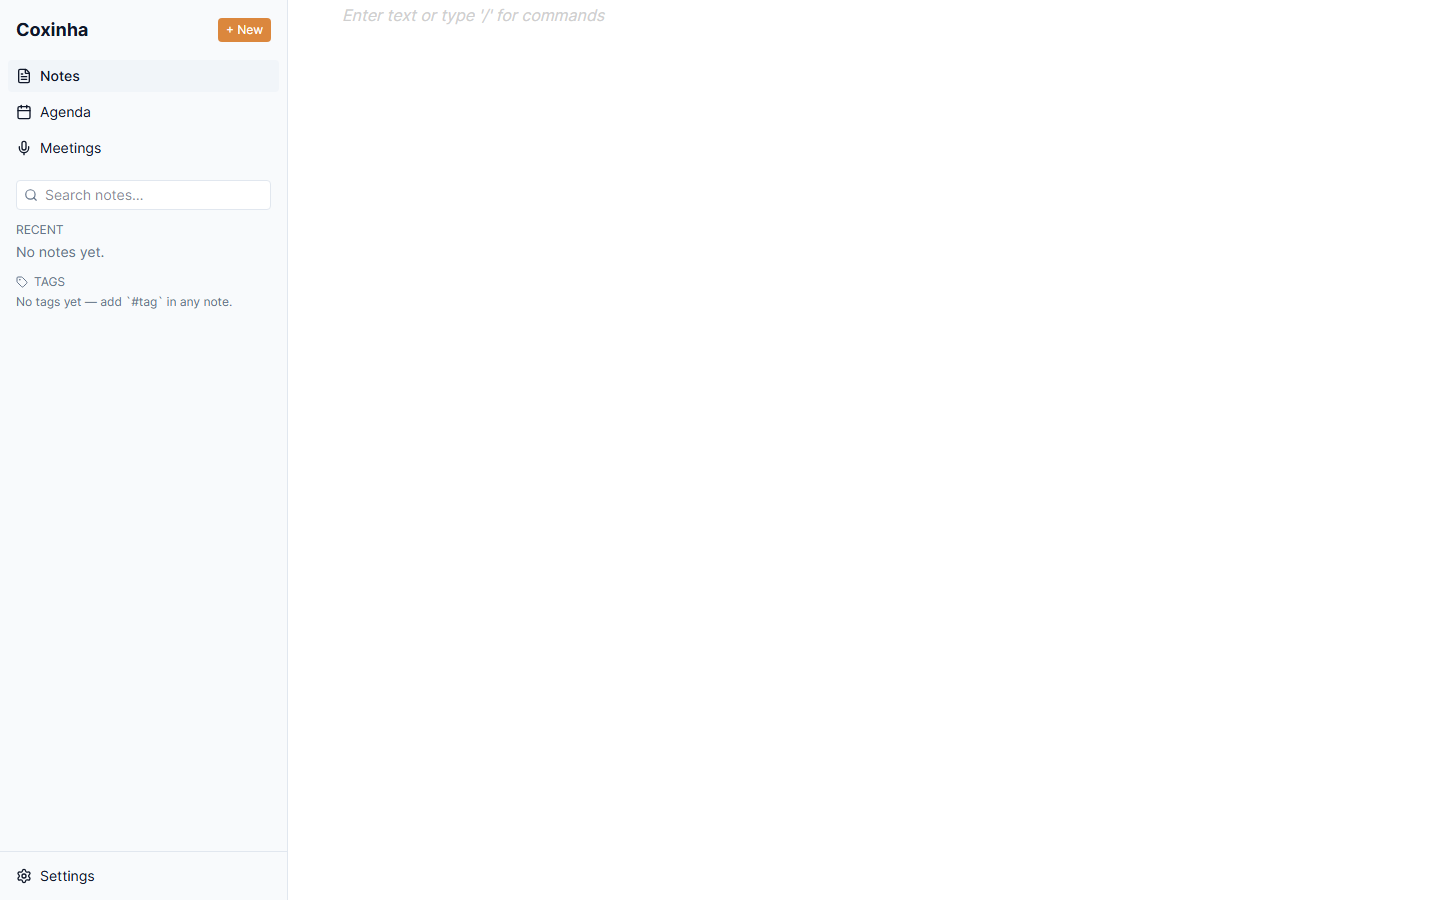
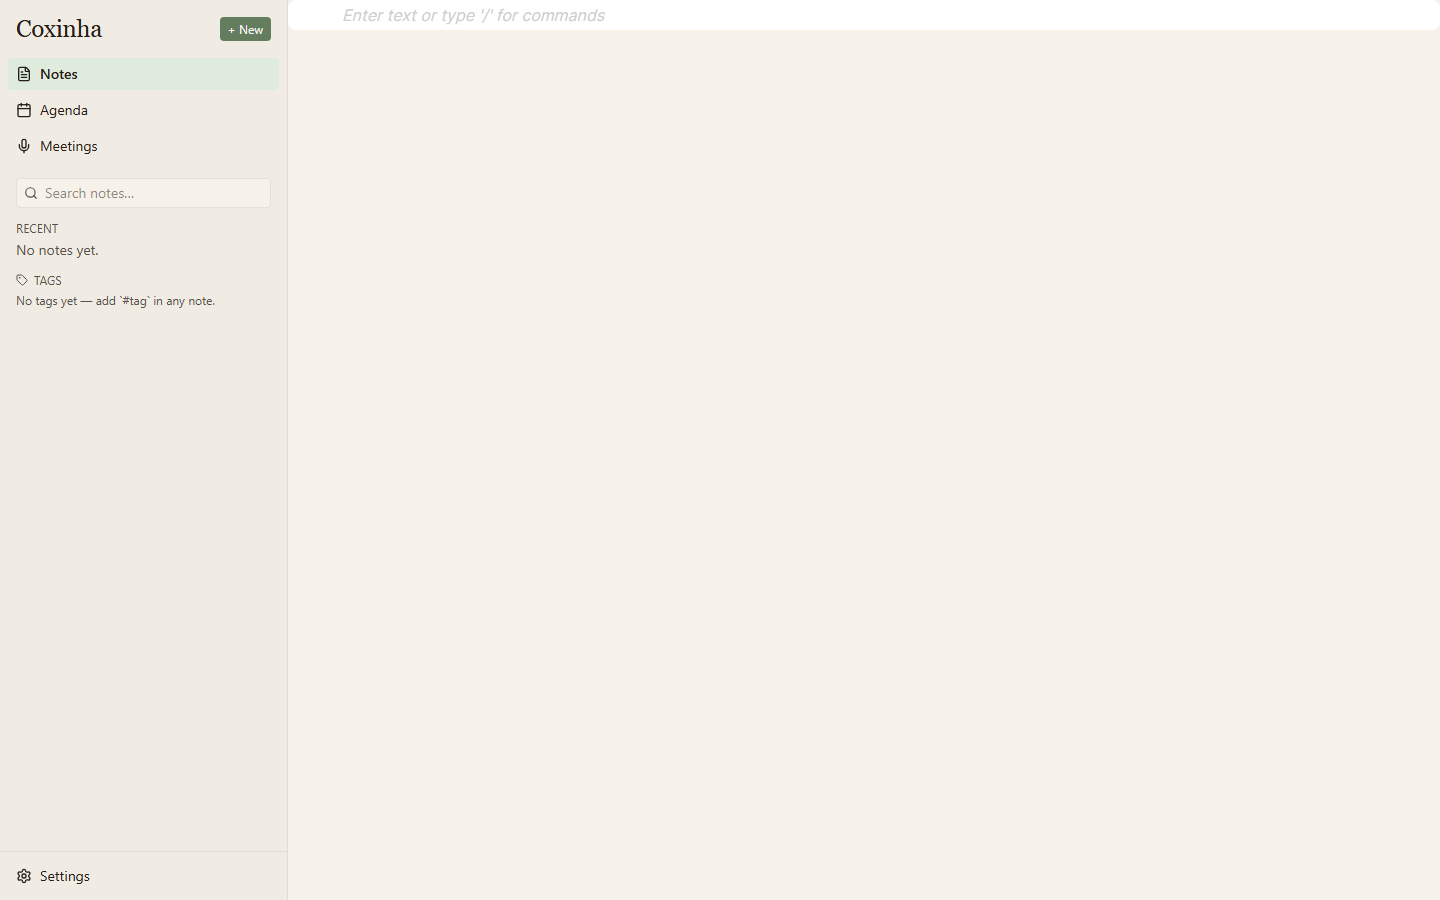
design: adopt Claude Design tokens + serif typography
First wave of the handoff bundle integration from the user's Claude Design session (stored under docs/research/ui-audit/mockups/reference-opera-air-layout.png and the extracted bundle). Swaps the CSS token system from Zinc-neutral to the warm OKLCH paper palette with sage accent that the user landed on, and retunes display type to Newsreader serif.

Changes:

- src/index.css: full rewrite. OKLCH raw-triplet tokens for canvas/surface/sunken/fg-primary/secondary/tertiary/quaternary + sage accent (oklch(0.560 0.055 140)). Dark mode via .dark / [data-theme=dark] with warm charcoal. Newsreader + Inter Tight + JetBrains Mono loaded from Google Fonts. Motion tokens (--ease-calm, --dur-fast/med/slow/breath) match DESIGN.md §6. .cx-display / .cx-eyebrow / .cx-kbd utility classes added.

- Sidebar brand, AgendaView title, MeetingsView title, SettingsView title all use cx-display (Newsreader serif) instead of the old sans-bold treatment.

- src/assets/: coxinha-mark.svg + coxinha-wordmark.svg copied from the handoff bundle. Not yet wired into the sidebar — text brand still the default while the icon-rail refactor is queued.

Accent color:

Pivots from Coxinha Orange #DE8C3A to sage oklch(0.560 0.055 140) per the user's chat with Claude Design (they explicitly asked for a non-orange accent). All existing primary affordances (+ New button, active nav tint, tag pill highlight) now render sage. DESIGN.md still says orange — update coming in the next commit once the visuals settle.
[…]

Changed region(s): [[0.0, 0.0, 0.2188, 1.0]]

diff --git a/src/index.css b/src/index.css
@@ -1,108 +1,103 @@
 @import "tailwindcss";
+@import url('https://fonts.googleapis.com/css2?family=Newsreader:ital,opsz,wght@0,6..72,400;0,6..72,500;0,6..72,600;1,6..72,400&family=Inter+Tight:wght@400;500;600;700&family=JetBrains+Mono:wght@400;500&display=swap');
 
-/* Pull BlockNote's shadcn classes into the scan so utilities they
-   rely on aren't purged. Tailwind 4 ignores node_modules by default. */
+/* BlockNote's shadcn bundle brings its own utility classes — keep
+   them in the Tailwind 4 scan so nothing gets purged. */
 @source "../node_modules/@blocknote/shadcn";
 
-/* Dark mode follows the `.dark` class on <html>, matching what the
-   theme.ts helper toggles. */
 @custom-variant dark (&:where(.dark, .dark *));
 
-/* shadcn token set. Every colour goes through a `--token: H S L`
-   triplet so the Tailwind alias wraps it with `hsl(var(...))` and we
-   can swap light/dark by toggling the `.dark` class on <html>.
-   Primary is the Coxinha orange (#de8c3a) in both modes — the
-   background flips, the accent colour stays the brand. */
+/* ---------------------------------------------------------------
+   Coxinha design tokens — handoff from Claude Design (2026-04-20).
+   Warm paper canvas, stone ink, sage accent. OKLCH throughout so
+   the palette is perceptually even across lightness steps.
+   See docs/research/ui-audit/DESIGN.md and the handoff files in
+   the same folder.
+   --------------------------------------------------------------- */
+
 @theme {
-  --color-background: hsl(var(--background));
-  --color-foreground: hsl(var(--foreground));
-  --color-card: hsl(var(--card));
-  --color-card-foreground: hsl(var(--card-foreground));
-  --color-popover: hsl(var(--popover));
-  --color-popover-foreground: hsl(var(--popover-foreground));
-  --color-primary: hsl(var(--primary));
-  --color-primary-foreground: hsl(var(--primary-foreground));
-  --color-secondary: hsl(var(--secondary));
-  --color-secondary-foreground: hsl(var(--secondary-foreground));
-  --color-muted: hsl(var(--muted));
-  --color-muted-foreground: hsl(var(--muted-foreground));
-  --color-accent: hsl(var(--accent));
-  --color-accent-foreground: hsl(var(--accent-foreground));
-  --color-destructive: hsl(var(--destructive));
-  --color-destructive-foreground: hsl(var(--destructive-foreground));
-  --color-border: hsl(var(--border));
-  --color-input: hsl(var(--input));
-  --color-ring: hsl(var(--ring));
+  --color-background: oklch(var(--bg-canvas));
+  --color-foreground: oklch(var(--fg-primary));
+  --color-card: oklch(var(--bg-surface));
+  --color-card-foreground: oklch(var(--fg-primary));
+  --color-popover: oklch(var(--bg-overlay) / 0.82);
+  --color-popover-foreground: oklch(var(--fg-primary));
+  --color-primary: oklch(var(--accent));
+  --color-primary-foreground: oklch(var(--fg-on-accent));
+  --color-secondary: oklch(var(--bg-surface-2));
+  --color-secondary-foreground: oklch(var(--fg-primary));
+  --color-muted: oklch(var(--bg-sunken));
+  --color-muted-foreground: oklch(var(--fg-secondary));
+  --color-accent: oklch(var(--accent-soft));
+  --color-accent-foreground: oklch(var(--fg-primary));
+  --color-destructive: oklch(var(--danger));
+  --color-destructive-foreground: oklch(var(--fg-on-accent));
+  --color-border: oklch(var(--fg-primary) / 0.08);
+  --color-input: oklch(var(--fg-primary) / 0.14);
+  --color-ring: oklch(var(--accent) / 0.40);
 
-  --radius-lg: var(--radius);
-  --radius-md: calc(var(--radius) - 2px);
-  --radius-sm: calc(var(--radius) - 4px);
+  --radius-lg: 16px;
+  --radius-md: 10px;
+  --radius-sm: 6px;
 
-  --font-sans: "Inter", system-ui, sans-serif;
-  --font-mono: "JetBrains Mono", Consolas, monospace;
+  --font-sans: 'Inter Tight', ui-sans-serif, -apple-system, BlinkMacSystemFont, 'Segoe UI', system-ui, sans-serif;
+  --font-mono: 'JetBrains Mono', ui-monospace, 'SF Mono', Menlo, monospace;
+  --font-display: 'Newsreader', 'Source Serif Pro', Georgia, serif;
+
+  /* Motion — Opera Air-inspired "calm" easing. */
+  --ease-calm: cubic-bezier(0.22, 0.61, 0.36, 1);
 }
 
 @layer base {
   :root {
-    --background: 0 0% 100%;
-    --foreground: 222 47% 11%;
+    /* Light — warm paper stepped surfaces. */
+    --bg-canvas:    0.960 0.012 80;
+    --bg-surface:   0.975 0.010 80;
+    --bg-surface-2: 0.945 0.013 80;
+    --bg-sunken:    0.930 0.013 80;
+    --bg-overlay:   0.980 0.008 80;
 
-    --card: 0 0% 100%;
-    --card-foreground: 222 47% 11%;
+    --fg-primary:    0.240 0.015 60;
+    --fg-secondary:  0.440 0.012 60;
+    --fg-tertiary:   0.600 0.010 60;
+    --fg-quaternary: 0.730 0.008 60;
+    --fg-on-accent:  0.980 0.008 80;
 
-    --popover: 0 0% 100%;
-    --popover-foreground: 222 47% 11%;
+    /* Accent — muted sage-olive. Quiet, warm-cool neutral.
+       This is the app's only non-neutral hue in chrome. */
+    --accent:       0.560 0.055 140;
+    --accent-hover: 0.510 0.065 140;
+    --accent-soft:  0.930 0.025 140;
 
-    --primary: 28 69% 55%;
-    --primary-foreground: 0 0% 100%;
+    --success: 0.620 0.080 150;
+    --warning: 0.720 0.110 80;
+    --danger:  0.560 0.120 30;
 
-    --secondary: 210 40% 96%;
-    --secondary-foreground: 222 47% 11%;
-
-    --muted: 210 40% 96%;
-    --muted-foreground: 215 16% 47%;
-
-    --accent: 210 40% 96%;
-    --accent-foreground: 222 47% 11%;
-
-    --destructive: 0 84% 60%;
-    --destructive-foreground: 0 0% 100%;
-
-    --border: 214 32% 91%;
-    --input: 214 32% 91%;
-    --ring: 28 69% 55%;
-
-    --radius: 0.5rem;
+    /* Motion tokens — see DESIGN.md §6. */
+    --dur-fast:   120ms;
+    --dur-med:    180ms;
+    --dur-slow:   260ms;
+    --dur-breath: 600ms;
   }
 
-  .dark {
-    --background: 222 47% 6%;
-    --foreground: 210 40% 98%;
+  /* Dark mode — warm charcoal, not blue-black. Same sage accent. */
+  .dark,
+  [data-theme="dark"] {
+    --bg-canvas:    0.225 0.012 60;
+    --bg-surface:   0.255 0.012 60;
+    --bg-surface-2: 0.295 0.012 60;
+    --bg-sunken:    0.200 0.012 60;
+    --bg-overlay:   0.255 0.012 60;
 
-    --card: 222 47% 6%;
-    --card-foreground: 210 40% 98%;
+    --fg-primary:    0.935 0.010 80;
+    --fg-secondary:  0.760 0.012 70;
+    --fg-tertiary:   0.620 0.012 70;
+    --fg-quaternary: 0.480 0.012 70;
+    --fg-on-accent:  0.975 0.010 80;
 
-    --popover: 222 47% 6%;
-    --popover-foreground: 210 40% 98%;
-
-    --primary: 28 69% 55%;
-    --primary-foreground: 222 47% 11%;
-
-    --secondary: 217 33% 17%;
-    --secondary-foreground: 210 40% 98%;
-
-    --muted: 217 33% 17%;
-    --muted-foreground: 215 20% 65%;
-
-    --accent: 217 33% 17%;
-    --accent-foreground: 210 40% 98%;
-
-    --destructive: 0 63% 31%;
-    --destructive-foreground: 210 40% 98%;
-
-    --border: 217 33% 17%;
-    --input: 217 33% 17%;
-    --ring: 28 69% 55%;
+    --accent:       0.680 0.065 140;
+    --accent-hover: 0.720 0.070 140;
+    --accent-soft:  0.330 0.030 140;
   }
 
   * {
@@ -120,8 +115,12 @@
     font-feature-settings: "rlig" 1, "calt" 1;
   }
 
-  /* Respect the OS "reduce motion" setting for everyone, not just
-     the components that remember to gate their transitions. */
+  ::selection {
+    background: oklch(0.860 0.060 55);
+    color: oklch(var(--fg-primary));
+  }
+
+  /* Respect the OS "reduce motion" setting. */
   @media (prefers-reduced-motion: reduce) {
     *,
     ::before,
@@ -137,4 +136,38 @@
 /* BlockNote inside our layout: fill the pane, respect the theme. */
 .bn-container {
   height: 100%;
+}
+
+/* Display (Newsreader serif) utility — for note titles, view
+   headlines, anything that wants the "quiet notebook" tone. */
+.cx-display {
+  font-family: var(--font-display);
+  font-weight: 500;
+  line-height: 1.1;
+  letter-spacing: -0.01em;
+}
+
+/* Eyebrow / small-caps label — sidebar sections ("RECENT", "TAGS")
+   and palette group headers. */
+.cx-eyebrow {
+  font-family: var(--font-sans);
+  font-weight: 500;
+  font-size: 11px;
+  letter-spacing: 0.08em;
+  text-transform: uppercase;
+  color: oklch(var(--fg-tertiary));
+}
+
+/* Kbd chip — matches the design handoff. */
+.cx-kbd {
+  display: inline-flex;
+  align-items: center;
+  padding: 1px 6px;
+  border-radius: 4px;
+  background: oklch(var(--bg-surface-2));
+  color: oklch(var(--fg-secondary));
+  font-family: var(--font-mono);
+  font-size: 11px;
+  font-weight: 500;
+  border: 1px solid oklch(var(--fg-primary) / 0.08);
 }

diff --git a/src/components/Sidebar.tsx b/src/components/Sidebar.tsx
@@ -88,7 +88,10 @@ export function Sidebar({ current, onNavigate }: Props) {
   return (
     <aside className="w-72 border-r border-border flex flex-col bg-muted/50">
       <header className="p-4 flex items-center justify-between">
-        <span className="font-bold text-lg" aria-label={t('brand.name')}>
+        <span
+          className="cx-display text-2xl"
+          aria-label={t('brand.name')}
+        >
           {t('brand.name')}
         </span>
         <button

diff --git a/src/features/meetings/MeetingsView.tsx b/src/features/meetings/MeetingsView.tsx
@@ -4,7 +4,7 @@ export function MeetingsView() {
   const { t } = useTranslation();
   return (
     <section className="p-8" aria-labelledby="meetings-heading">
-      <h1 id="meetings-heading" className="text-2xl font-bold mb-4">
+      <h1 id="meetings-heading" className="cx-display text-4xl mb-4">
         {t('meetings.title')}
       </h1>
       <p className="text-muted-foreground">{t('meetings.comingSoon')}</p>

diff --git a/src/features/agenda/AgendaView.tsx b/src/features/agenda/AgendaView.tsx
@@ -49,7 +49,7 @@ export function AgendaView() {
   return (
     <section className="h-full flex flex-col" aria-labelledby="agenda-heading">
       <header className="px-8 pt-6 pb-2">
-        <h1 id="agenda-heading" className="text-2xl font-bold">
+        <h1 id="agenda-heading" className="cx-display text-4xl">
           {t('agenda.title')}
         </h1>
         <p className="text-sm text-muted-foreground">

diff --git a/src/features/settings/SettingsView.tsx b/src/features/settings/SettingsView.tsx
@@ -358,7 +358,7 @@ function SettingsFrame({ children }: { children: React.ReactNode }) {
   const { t } = useTranslation();
   return (
     <section className="p-8 space-y-6 max-w-3xl" aria-labelledby="settings-heading">
-      <h1 id="settings-heading" className="text-2xl font-bold">
+      <h1 id="settings-heading" className="cx-display text-4xl">
         {t('settings.title')}
       </h1>
       {children}

diff --git a/docs/research/ui-audit/screenshots/README.md b/docs/research/ui-audit/screenshots/README.md
@@ -1,6 +1,6 @@
 # UI Audit Screenshots
 
-Captured by `pnpm screenshots` on 2026-04-20T18:36:18.630Z.
+Captured by `pnpm screenshots` on 2026-04-21T03:23:03.773Z.
 Base URL: http://localhost:1420
 Viewports: 1440x900, 1024x768, 1920x1080
 Routes: /, /notes, /agenda, /meetings, /settings
